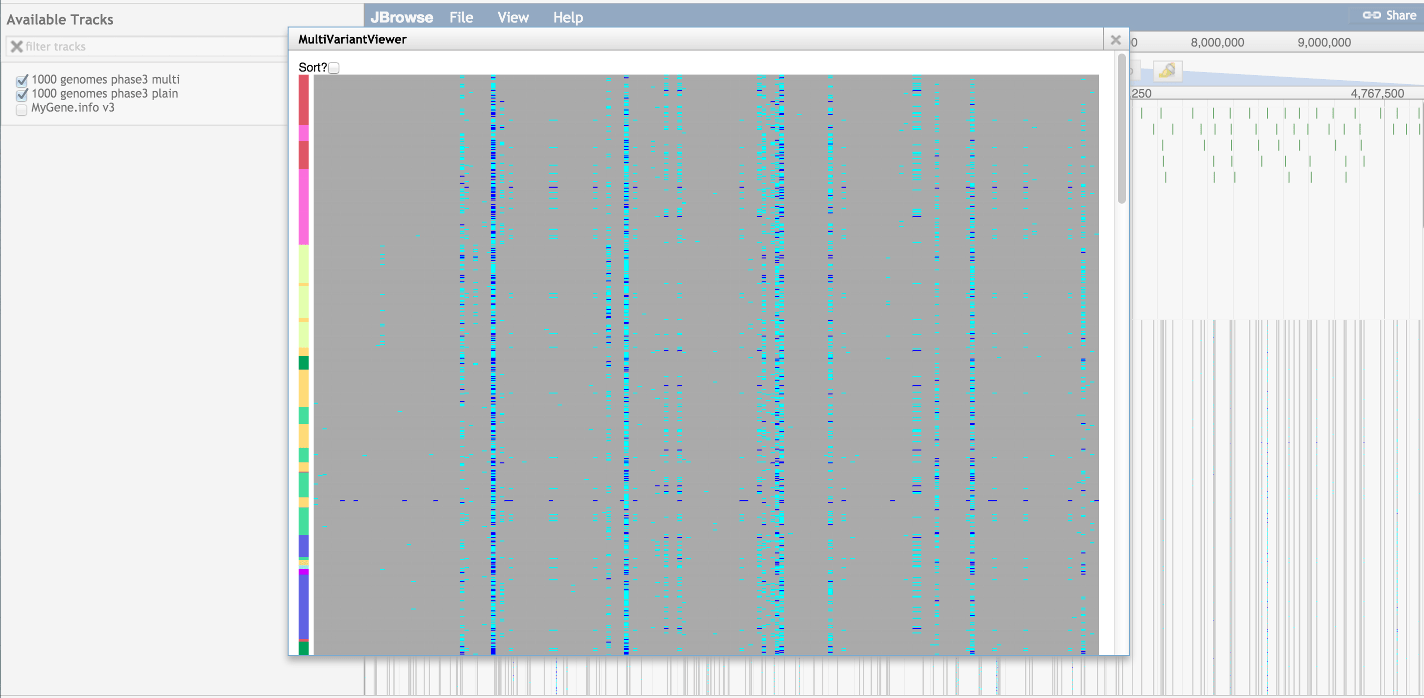
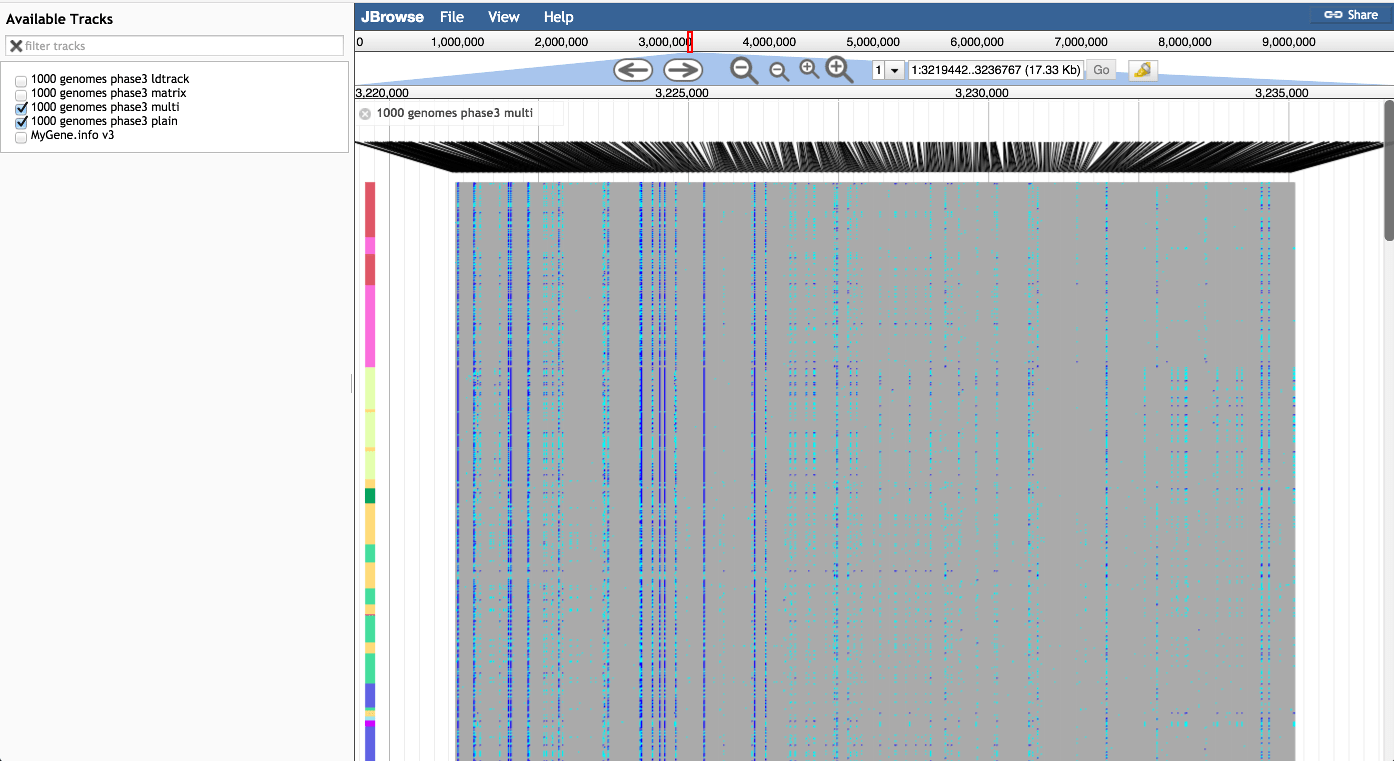
Update ChangeLog.md

diff --git a/js/View/Track/LDTrack.js b/js/View/Track/LDTrack.js
@@ -95,21 +95,6 @@ function(
             return +((this.config.style || {}).height) || 500;
         },
 
-        _defaultConfig: function() {
-            return Util.deepUpdate(lang.mixin(this.inherited(arguments), {
-                style: {
-                    matrixColor: function(feat, gt, gtString) {
-                        if (gt === 'ref') {
-                            return '#aaa';
-                        } else if (!/^1([\|\/]1)*$/.test(gtString) && !/^0([\|\/]0)*$/.test(gtString)) {
-                            return 'cyan';
-                        }
-                        return 'blue';
-                    }
-                },
-                useMatrixViewer: true
-            }));
-        },
         _trackMenuOptions: function() {
             var opts = this.inherited(arguments);
             var thisB = this;

diff --git a/js/View/Track/Grid.js b/js/View/Track/Grid.js
@@ -37,8 +37,7 @@ function(
                         }
                         return 'blue';
                     }
-                },
-                useMatrixViewer: true
+                }
             });
         },
 

diff --git a/README.md b/README.md
@@ -7,10 +7,9 @@ A JBrowse plugin that adds some custom glyphs for variants on a "multi VCF" file
 
 ### Tracktype
  
-* MultiVariantViewer/View/Track/Grid - displays all genotypes
-* MultiVariantViewer/View/Track/Features - displays variants as normal features
+* MultiVariantViewer/View/Track/Grid - displays all genotypes for features
 * MultiVariantViewer/View/Track/LDTrack - displays ld triangle on the genome browser
-* MultiVariantViewer/View/Track/Matrix - displays variant grid on the genome browser
+* MultiVariantViewer/View/Track/Matrix - displays all genotypes for features in matrix form
 
 ### Style options
 
@@ -31,8 +30,6 @@ The sublabels are optional and default to just showing the sample names if not s
 
 ### LD viewing options
 
-* useLDViewer - Add option to track menu to view LD, requires running the linkage_server. Default false
-* useMatrixViewer - Add option to track menu to view variant as matrix. Default true
 * ldviewer - URL for the linkage_server service. Default http://localhost:4730/
 * maf - Set minor allele frequency cutoff. Default 0.01
 
@@ -73,7 +70,7 @@ See test subdirectory for example, you can use http://localhost/jbrowse/?data=pl
 
 ![](img/example.png)
 
-Shows 1000genomes VCF data
+Shows 1000genomes VCF data, tooltips on sidebar
 
 ![](img/matrix.png)
 

diff --git a/ChangeLog.md b/ChangeLog.md
@@ -1,3 +1,9 @@
+# Version 0.3.0
+
+- Removed dialog boxes
+- Improved LD track
+- Added matrix track
+
 # Version 0.2.0
 
 - Plot LD and matrix in dialog boxes
